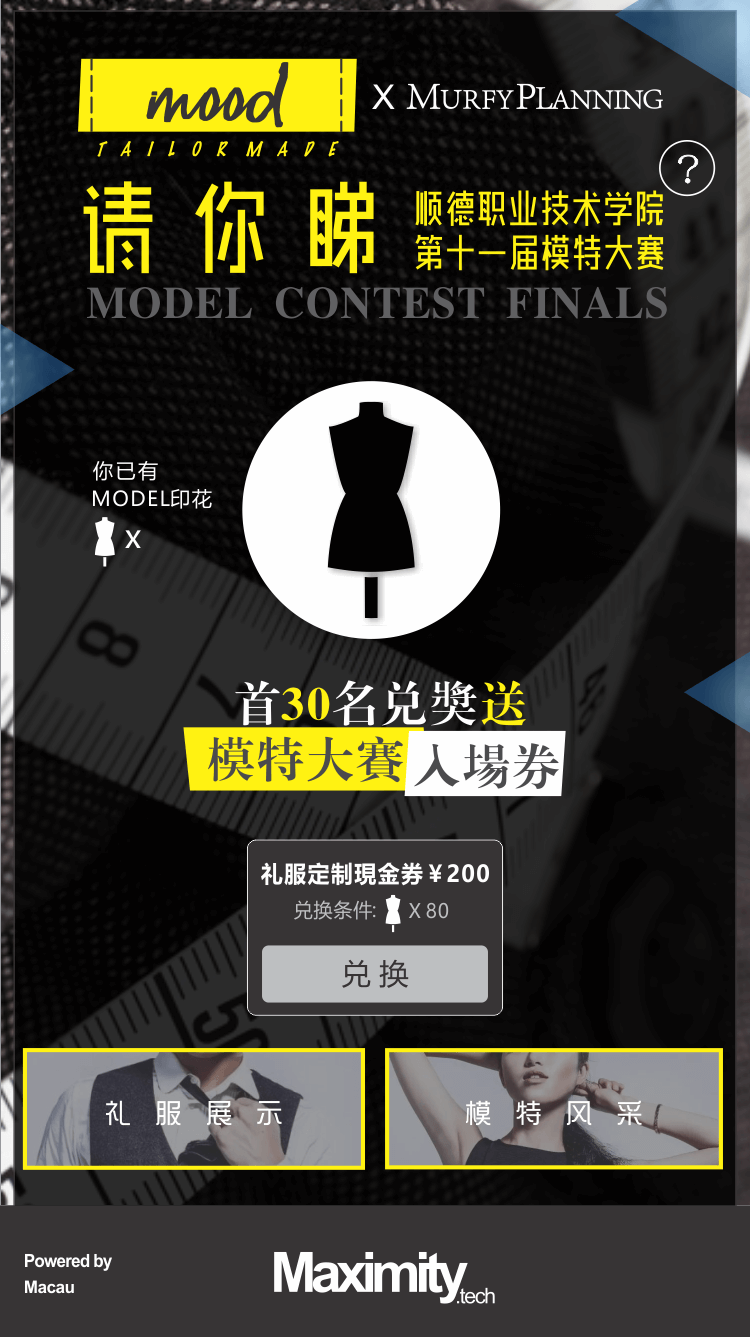
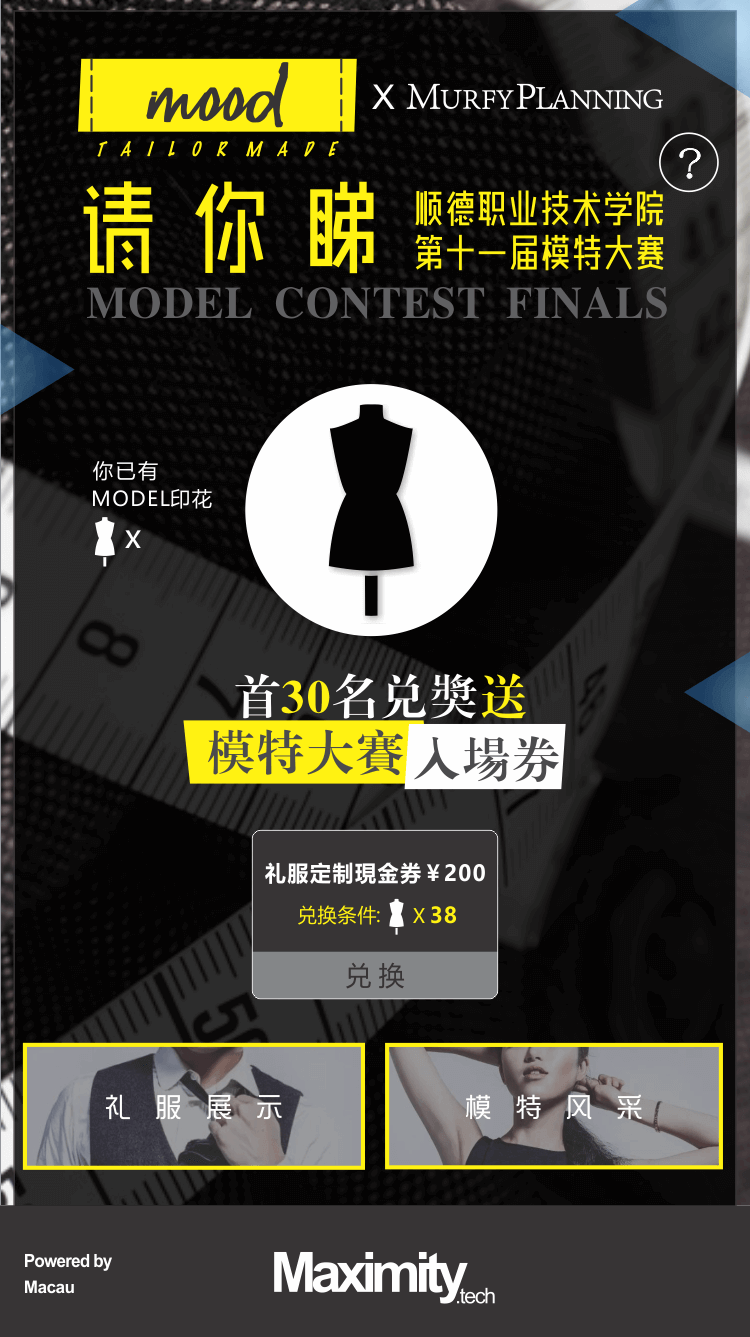
change 80 to 38 and some photo

diff --git a/api/controllers/ApiController.js b/api/controllers/ApiController.js
@@ -112,7 +112,7 @@ module.exports = {
     var verificationCode = req.param('verificationCode');
     var userOpenId = req.param("user");
     var prize = req.param("prize");
-    var prize1Credit = 80;
+    var prize1Credit = 38;
     var prize1Amount = 1000000;
     redeem_c.findOne({user: userOpenId, advertisement: adString}).exec(function(err, redeemOne){
       user.findOne({openId: userOpenId}).exec(function(err, userOne){

diff --git a/assets/controllers/easywash.js b/assets/controllers/easywash.js
@@ -33,7 +33,7 @@ if(typeof QueryString.code == 'undefined'){
 var ad = QueryString.ad;
 var sharedBy = QueryString.sharedBy;
 var adString = 'adMood';
-var prize1Credit = 80;
+var prize1Credit = 38;
 
 app.controller('IndexCtrl', [
 '$scope','$http',
